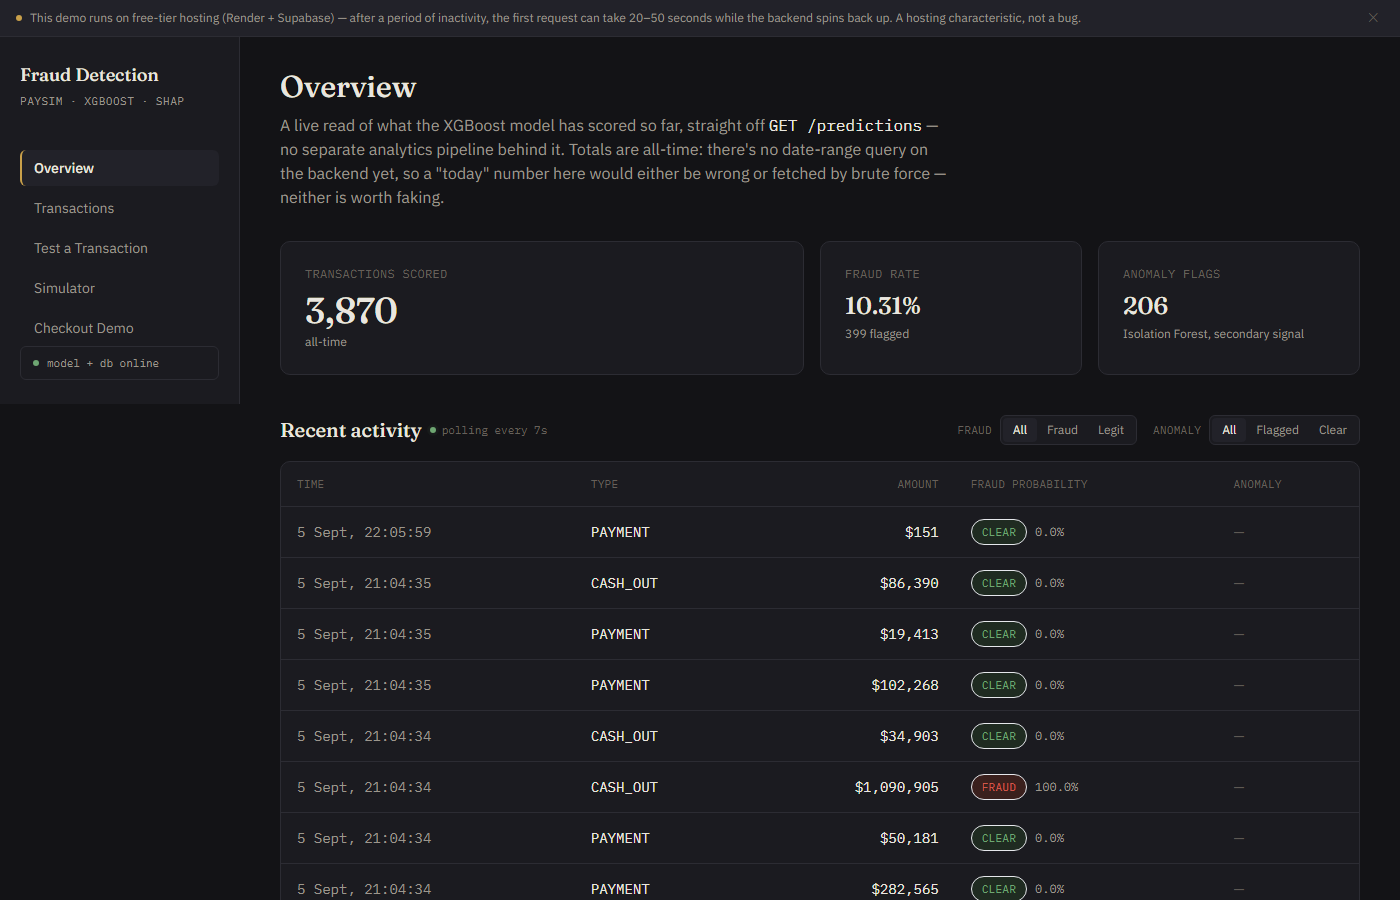
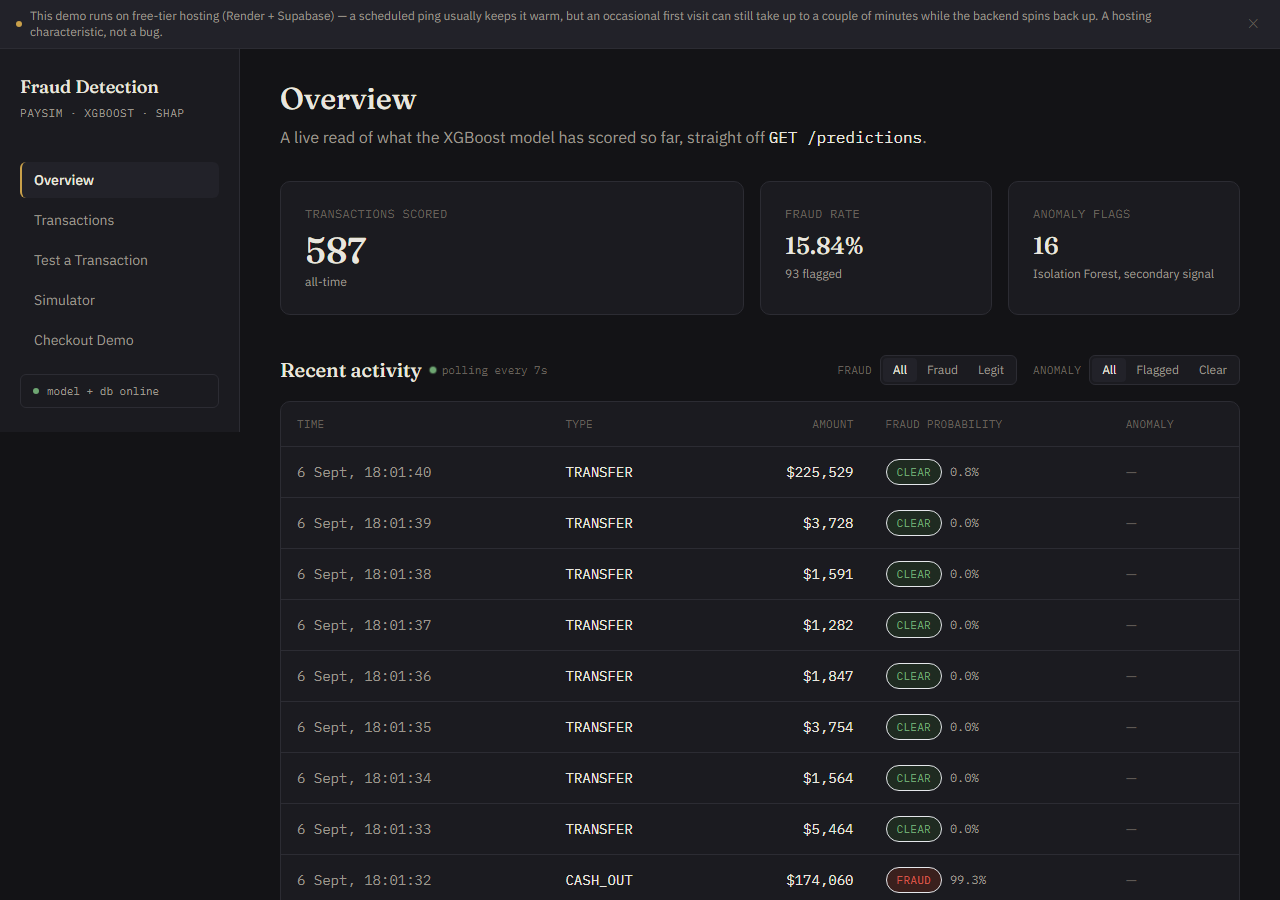
docs: recapture README screenshots against the live deployment
Replaces the five existing docs/screenshots/*.png (previously captured
against local dev) with real captures against the live Vercel/Render
deployment, and adds transaction-detail-shap.png showing the full SHAP
bar chart on a transaction detail page. Linked from the README's Overview
section. Simulator was started/stopped via its own UI for the running-state
capture; no cleanup needed since that's normal use of the feature, not a
test artifact.

diff --git a/README.md b/README.md
@@ -41,6 +41,8 @@ The landing page: all-time stat tiles (transactions scored, fraud rate, anomaly 
 live-polling feed of the most recent predictions, filterable by fraud/anomaly status. Every row
 links through to a full SHAP breakdown for that transaction.
 
+![Transaction detail page with the full SHAP bar chart](docs/screenshots/transaction-detail-shap.png)
+
 ### Transactions
 
 ![Transactions page](docs/screenshots/transactions.png)
